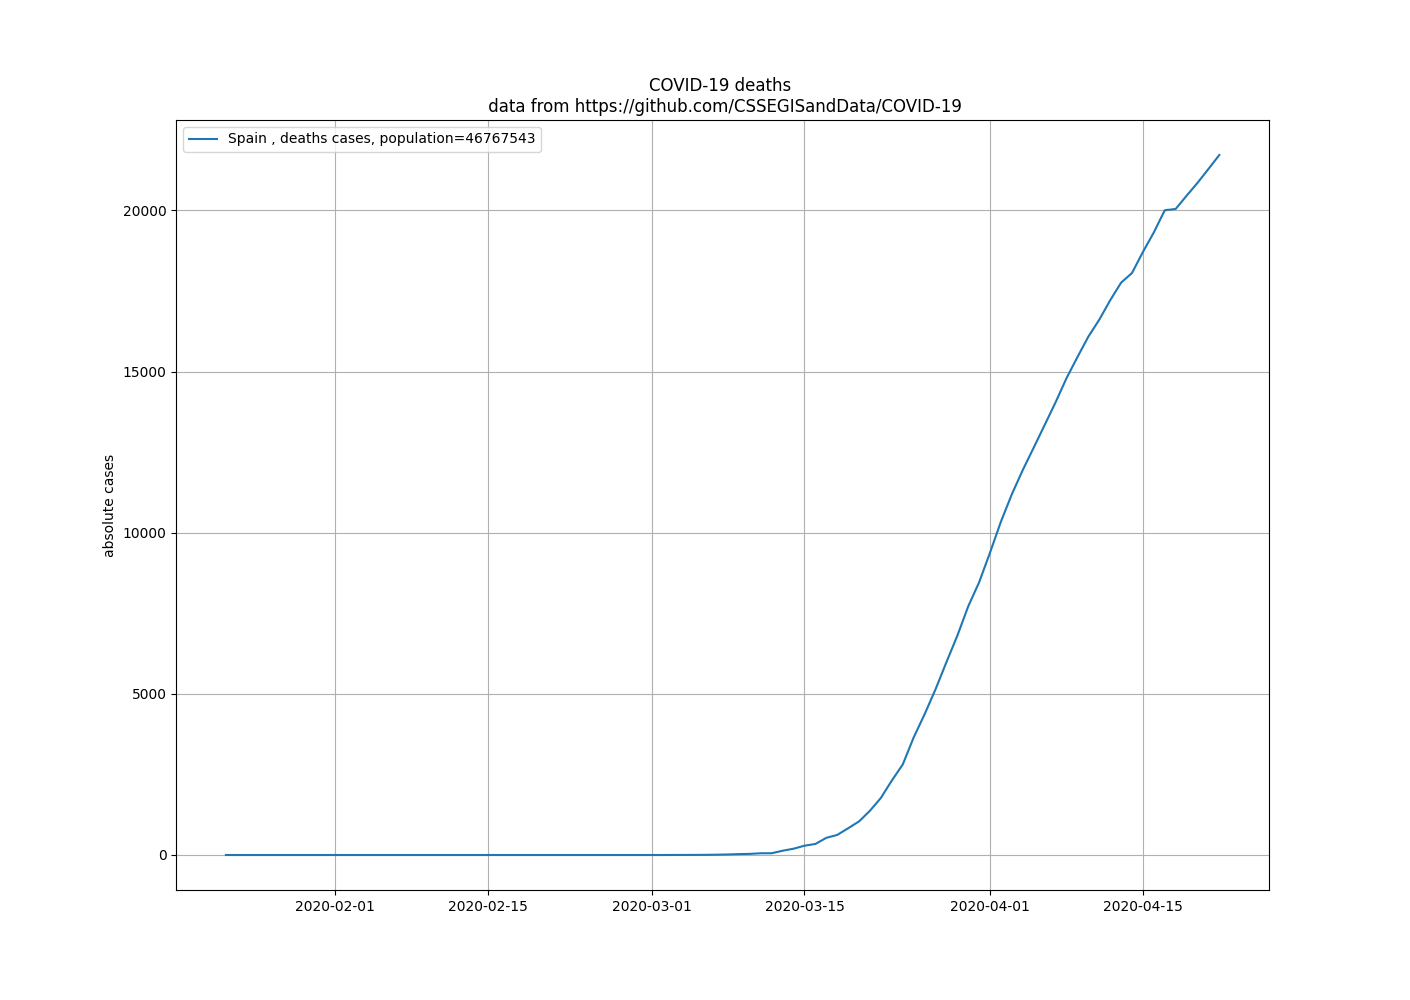
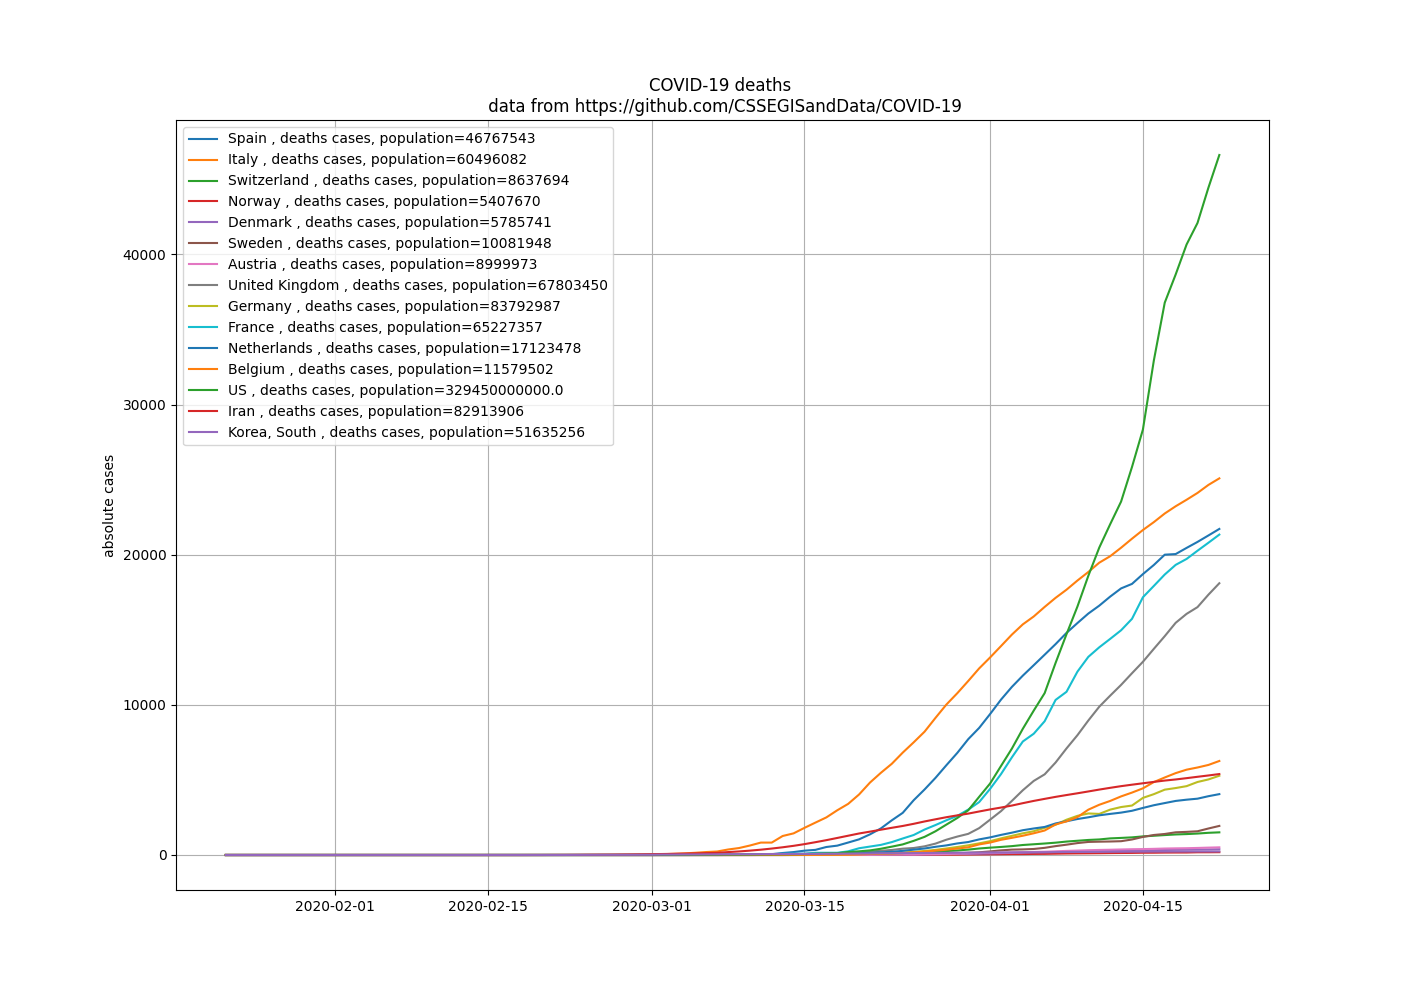
long country list

diff --git a/simple_visualization.py b/simple_visualization.py
@@ -43,8 +43,8 @@ class Covid(object):
 
 
         country_list = [spain, italy, switzerland, norway, denmark, sweden, austria, uk, germany, france, netherlands, belgium, us, iran, south_korea]
-        country_list = [spain, italy, switzerland, germany, france, us, iran, south_korea]
-        country_list = [spain]
+        #country_list = [spain, italy, switzerland, germany, france, us, iran, south_korea]
+        #country_list = [spain]
 
         filename = 'relative_cases.png'
         title = "relative COVID-19 confirmed cases \n cases data from https://github.com/CSSEGISandData/COVID-19 \n population data from https://en.wikipedia.org/wiki/List_of_European_countries_by_population"
